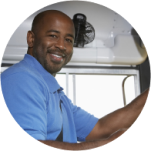
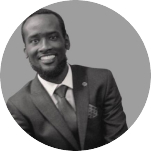
new file:   src/assests/Ellipse 11 1.jpg 	new file:   src/assests/Ellipse 11 1.svg 	modified:   src/assests/Ellipse 11.png 	deleted:    src/assests/Ellipse 13.png 	new file:   src/assests/Ellipse 13.svg 	modified:   src/components/Gallery/Gallery.jsx 	modified:   src/components/glance/Glance.jsx 	mo

diff --git a/src/pages/footer/Footer.jsx b/src/pages/footer/Footer.jsx
@@ -45,14 +45,15 @@ export const Footer = () => {
               98-200, Nairobi-Kenya
             </p>
             <p>
-              <i className="fa-solid fa-phone fa-xl"></i>  
+              <i className="fa-solid fa-phone fa-xl"></i>
               <a href="tel:+254729960675">
-                  0729 960 675 || 0758 267 311 || 0723 269 643
+                0729 960 675 || 0758 267 311 || 0723 269 643
               </a>
             </p>
             <p>
-              <a href="mailto:midland@ac.ke">
-                <i className="fa-solid fa-envelope fa-xl"></i> midland@ac.ke
+              <a href="mailto:info@midlandschool.co.ke">
+                <i className="fa-solid fa-envelope fa-xl"></i>{" "}
+                info@midlandschool.co.ke
               </a>
             </p>
             <div className="socialMedia" style={{ paddingTop: "1 rem" }}>

diff --git a/src/components/testimonials/Testimonials.jsx b/src/components/testimonials/Testimonials.jsx
@@ -1,6 +1,6 @@
 import React from 'react'
-import TestimonialImage1 from '../../assests/Ellipse 11.png'
-import TestimonialImage2 from "../../assests/Ellipse 13.png";
+import TestimonialImage1 from '../../assests/Ellipse 11 1.svg'
+import TestimonialImage2 from "../../assests/Ellipse 13.svg";
 import './style/style.css';
 import moe from "../../assests/moe.png";
 import moh from "../../assests/moh.png";
@@ -48,7 +48,7 @@ export const Testimonials = () => {
                 />
               </div>
               <div>
-                <h3 className="testimonial-name">Emmy's Parent</h3>
+                <h3 className="testimonial-name">Mohamed Hussein</h3>
                 <p className="testimony">
                   " Since starting at this school, my child has shown tremendous
                   growth in their knowledge and understanding of the material.

diff --git a/src/components/glance/Glance.jsx b/src/components/glance/Glance.jsx
@@ -20,7 +20,7 @@ export const Glance = () => {
                     <span id="value1">
                       {" "}
                       {isVisible && (
-                        <CountUp enableScrollSpy={true} start={0} end={20} />
+                        <CountUp enableScrollSpy={true} start={0} end={30} />
                       )}
                     </span>
                     +

diff --git a/src/pages/contact/Contact.jsx b/src/pages/contact/Contact.jsx
@@ -97,6 +97,7 @@ export const Contact = () => {
               </a>
               <p>
                 <i className="fa-solid fa-location-dot "></i>
+                
                 Midland Court, Community Rd, Syokimau, Machakos County
                 {/* <span className="location">Syokimau, Machakos County</span> */}
               </p>

diff --git a/src/pages/topNav/TopNav.jsx b/src/pages/topNav/TopNav.jsx
@@ -26,7 +26,7 @@ export const TopNav = () => {
         </div>
         <div className="webmail tap">
           <a
-            href="https://rs2.noc254.com:2096/cpsess4461410082/3rdparty/roundcube/"
+            href="https://midlandschool.co.ke/webmail"
             target="_blank"
           >
             Staff Web Mail

diff --git a/src/components/Gallery/Gallery.jsx b/src/components/Gallery/Gallery.jsx
@@ -14,7 +14,7 @@ export const Gallery = () => {
     <div className="gallery">
       <div className="line"></div>
       <div className="galleryTitle ">
-        <h2>Our Gallery</h2>
+        <h2>Media Gallery</h2>
       </div>
 
       <div className="galleryDetails">
